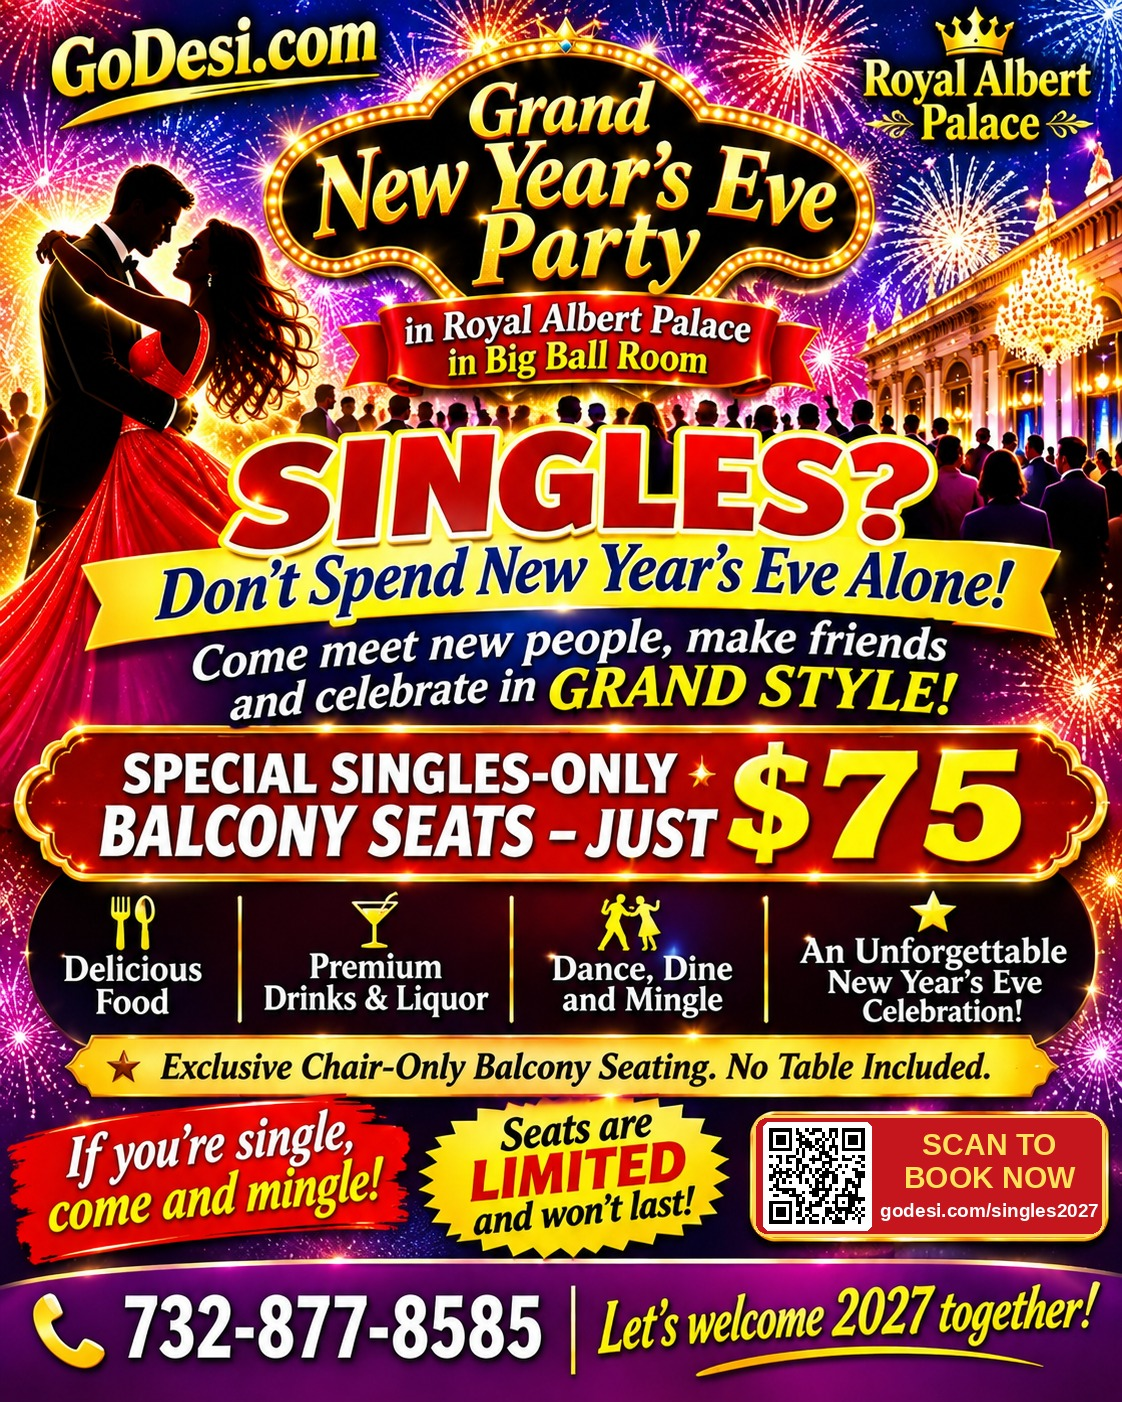
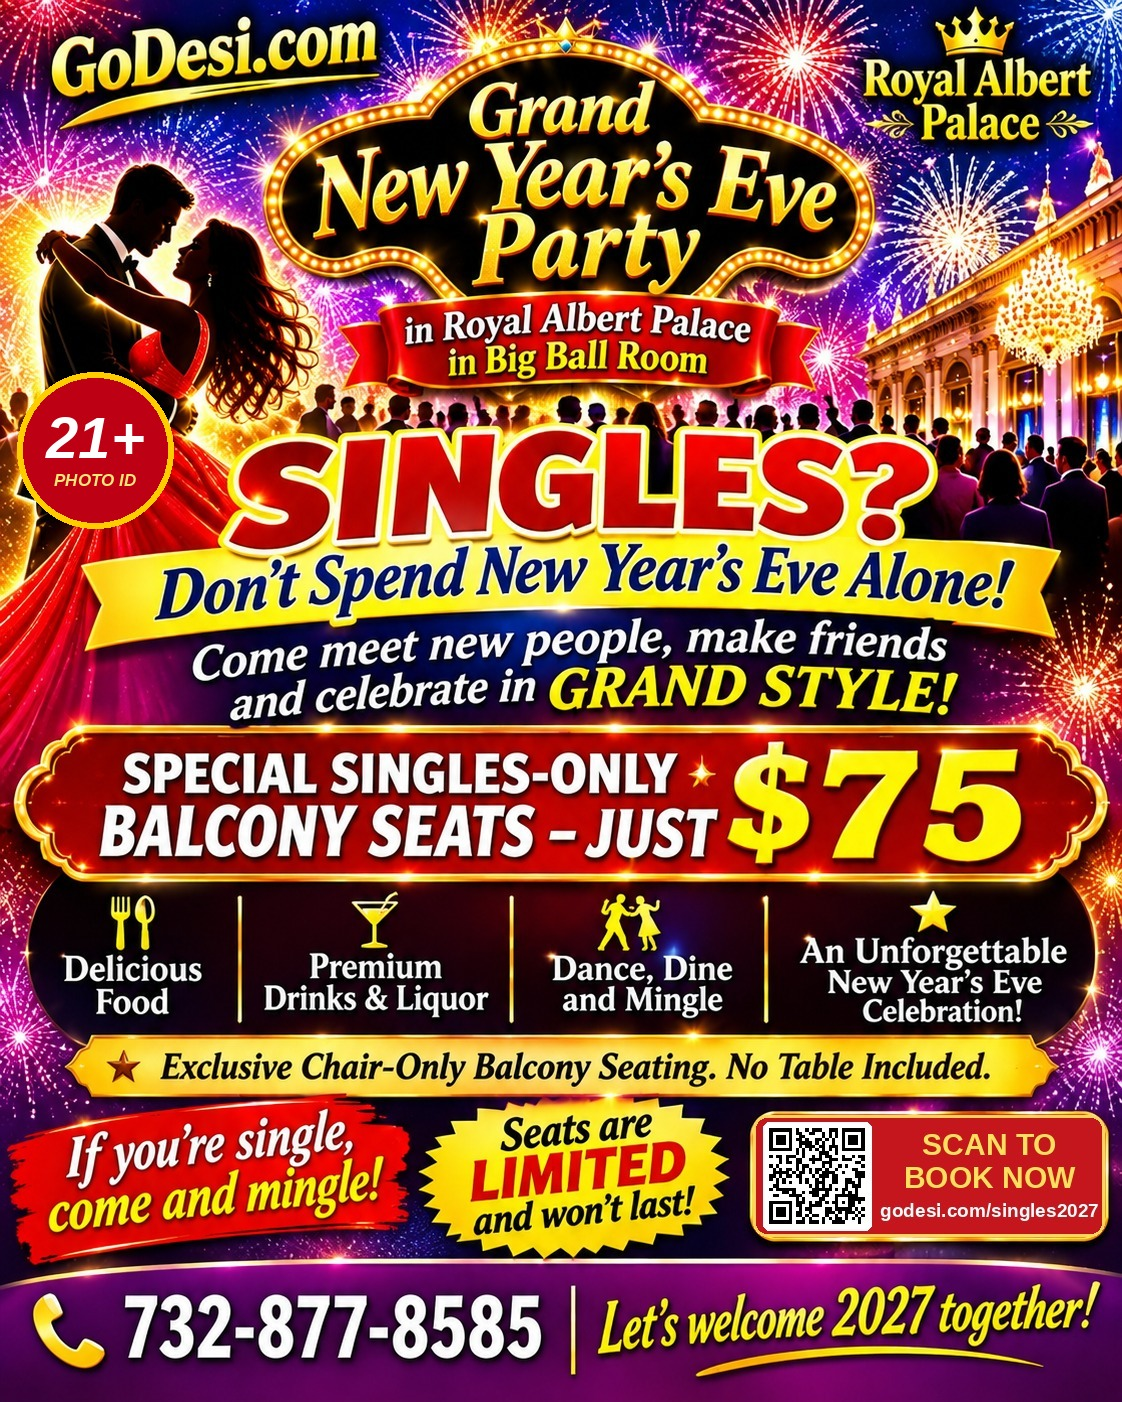
Singles Mingle: 21+ (Connect profile age 21+, ID at the door), 21+ badge on the flyer

Changed region(s): [[0.0, 0.2454, 0.156, 0.3987]]

diff --git a/scripts/create-nye-2027-singles.ts b/scripts/create-nye-2027-singles.ts
@@ -1,7 +1,7 @@
 /**
  * Creates (or refreshes) the "Singles Mingle" listing for NYE 2027: the same night and
  * hall as the main party, but its own page and its own 50 chair-only balcony seats, sold
- * only to members with a Connect profile marked Single (see lib/singles). The main event
+ * only to members 21+ with a Connect profile marked Single (see lib/singles). The main event
  * keeps its separate 50 balcony seats, so the balcony holds 100 in total.
  * Safe to re-run: the event is matched by slug and its single tier by name.
  *
@@ -13,19 +13,20 @@ import { SINGLES_ONLY_TAG } from "@/lib/singles";
 const MAIN_SLUG = "new-year-eves-party-2027-edison";
 const SLUG = "singles-mingle-new-years-eve-party-2027-nj";
 const FLYER = "https://godesi.com/flyers/nye-2027-singles-mingle.jpg";
-const TIER = { name: "Singles balcony seat", note: "Chair only, no table · singles band included", price: 75, seats: 50 };
+const TIER = { name: "Singles balcony seat", note: "21+ · Chair only, no table · singles band included", price: 75, seats: 50 };
 
-const TITLE = "Singles Mingle New Year's Eve Party 2027 in NJ";
+const TITLE = "Singles Mingle New Year's Eve Party 2027 in NJ (21+)";
 
 const DESCRIPTION = [
   "Single? Don't spend New Year's Eve alone! GoDesi Singles Mingle is a singles-only New Year's Eve party inside the Grand New Year's Eve Party 2027 at Royal Albert Palace, Fords NJ (near Edison) — Thursday, December 31st, 8:00 PM to 1:00 AM.",
   "Singles get their own chair-only balcony in the Big Ball Room: no tables, more of a club feel, so it's easy to move around, meet new people and make friends. Every singles guest gets a special singles band, so you know who else is there to mingle.",
   "You get everything the main party has: delicious food from live stations (dosa, jalebi, golgappa and more), premium drinks and liquor, DJ Sandy on the dance floor and belly dancer Aamra's fire dance. The only thing you don't get is a table.",
-  "Tickets are $75 and only 50 singles seats are available. To keep it singles-only, you need a free GoDesi Connect profile marked Single before you buy — create it in a minute and come straight back to book.",
+  "This is a 21+ party because liquor is served: bring a photo ID, which is checked at the door when you pick up your singles band.",
+  "Tickets are $75 and only 50 singles seats are available. To keep it singles-only, you need a free GoDesi Connect profile marked Single, with your age (21 or older), before you buy — create it in a minute and come straight back to book.",
   "Questions or group bookings: Rachna 908-421-1685 · Anil 732-877-8585 · Ashok 732-921-5606 · Office 732-661-1070.",
 ].join("\n\n");
 
-const TAGS = [SINGLES_ONLY_TAG, "singles", "singles-party", "singles-mingle", "desi-singles", "new-years-eve", "nye-2027", "new-jersey"];
+const TAGS = [SINGLES_ONLY_TAG, "singles", "singles-party", "singles-mingle", "desi-singles", "21-plus", "new-years-eve", "nye-2027", "new-jersey"];
 
 async function main() {
   const main = await db.event.findUnique({ where: { slug: MAIN_SLUG } });

diff --git a/src/app/events/[slug]/page.tsx b/src/app/events/[slug]/page.tsx
@@ -2,7 +2,12 @@ import type { Metadata } from "next";
 import Link from "next/link";
 import { notFound } from "next/navigation";
 import { db } from "@/lib/db";
-import { connectProfileHref, isSinglesOnly, singlesBlocker } from "@/lib/singles";
+import {
+  SINGLES_MIN_AGE,
+  connectProfileHref,
+  isSinglesOnly,
+  singlesBlocker,
+} from "@/lib/singles";
 import { venuePath } from "@/lib/venues";
 import { getCurrentUser } from "@/lib/auth";
 import { can } from "@/lib/permissions";
@@ -272,15 +277,14 @@ export default async function EventPage({
 
   const user = await getCurrentUser();
   const singlesOnly = isSinglesOnly(event);
-  const singlesBlock =
+  const singlesProfile =
     singlesOnly && user
-      ? singlesBlocker(
-          await db.meetupProfile.findUnique({
-            where: { userId: user.id },
-            select: { marital: true, status: true, adultConfirmedAt: true },
-          }),
-        )
+      ? await db.meetupProfile.findUnique({
+          where: { userId: user.id },
+          select: { marital: true, status: true, adultConfirmedAt: true, age: true },
+        })
       : null;
+  const singlesBlock = singlesOnly && user ? singlesBlocker(singlesProfile) : null;
   const speakers = await withProfiles(event.speakers, event.organizer);
   const profileFor = (name: string | null) =>
     name
@@ -1015,7 +1019,10 @@ export default async function EventPage({
             <h2 className="font-bold">🎟 Get your tickets</h2>
             {singlesOnly ? (
               <p className="mt-2 rounded-lg bg-fuchsia-50 px-3 py-2 text-sm text-fuchsia-900">
-                💃 <span className="font-bold">Singles only.</span> Tickets are
+                💃 <span className="font-bold">
+                  Singles only, {SINGLES_MIN_AGE}+.
+                </span>{" "}
+                Tickets are
                 for members with a free{" "}
                 <Link href="/connect" className="font-semibold underline">
                   GoDesi Connect
@@ -1045,7 +1052,7 @@ export default async function EventPage({
               <div className="mt-3 space-y-2">
                 <p className="text-sm text-slate-600">{singlesBlock}</p>
                 <LinkButton href={connectProfileHref(event.slug)}>
-                  Create my Connect profile
+                  {singlesProfile ? "Update" : "Create"} my Connect profile
                 </LinkButton>
                 <p className="text-xs text-slate-500">
                   It takes a minute, and you come straight back here to buy.

diff --git a/src/lib/singles.ts b/src/lib/singles.ts
@@ -1,5 +1,7 @@
 /** Events tagged with this only sell tickets to members with a Connect profile marked Single. */
 export const SINGLES_ONLY_TAG = "singles-only";
+/** Liquor is served at the singles party, so buyers must be 21+ (ID is checked at the door). */
+export const SINGLES_MIN_AGE = 21;
 
 export function isSinglesOnly(event: { tags: string[] }) {
   return event.tags.includes(SINGLES_ONLY_TAG);
@@ -7,14 +9,19 @@ export function isSinglesOnly(event: { tags: string[] }) {
 
 /** Why this member can't buy a singles-only ticket yet, or null when they can. */
 export function singlesBlocker(
-  profile: { marital: string; status: string; adultConfirmedAt: Date | null } | null,
+  profile: {
+    marital: string;
+    status: string;
+    adultConfirmedAt: Date | null;
+    age: number | null;
+  } | null,
 ) {
   if (!profile || profile.status === "REJECTED")
     return "This party is for singles only. Create your free GoDesi Connect profile first, marked Single.";
   if (profile.marital !== "SINGLE")
     return "This party is for singles only. Set your GoDesi Connect profile to Single to get a ticket.";
-  if (!profile.adultConfirmedAt)
-    return "Please confirm you are 18 or older on your GoDesi Connect profile.";
+  if (!profile.adultConfirmedAt || (profile.age ?? 0) < SINGLES_MIN_AGE)
+    return `This party is ${SINGLES_MIN_AGE}+ because liquor is served. Add your age (${SINGLES_MIN_AGE} or older) to your GoDesi Connect profile, and bring photo ID to the door.`;
   return null;
 }
 

diff --git a/src/app/actions/events.ts b/src/app/actions/events.ts
@@ -590,7 +590,7 @@ export async function bookTicketAction(
       const blocker = singlesBlocker(
         await db.meetupProfile.findUnique({
           where: { userId: user.id },
-          select: { marital: true, status: true, adultConfirmedAt: true },
+          select: { marital: true, status: true, adultConfirmedAt: true, age: true },
         }),
       );
       if (blocker) return { error: blocker };
